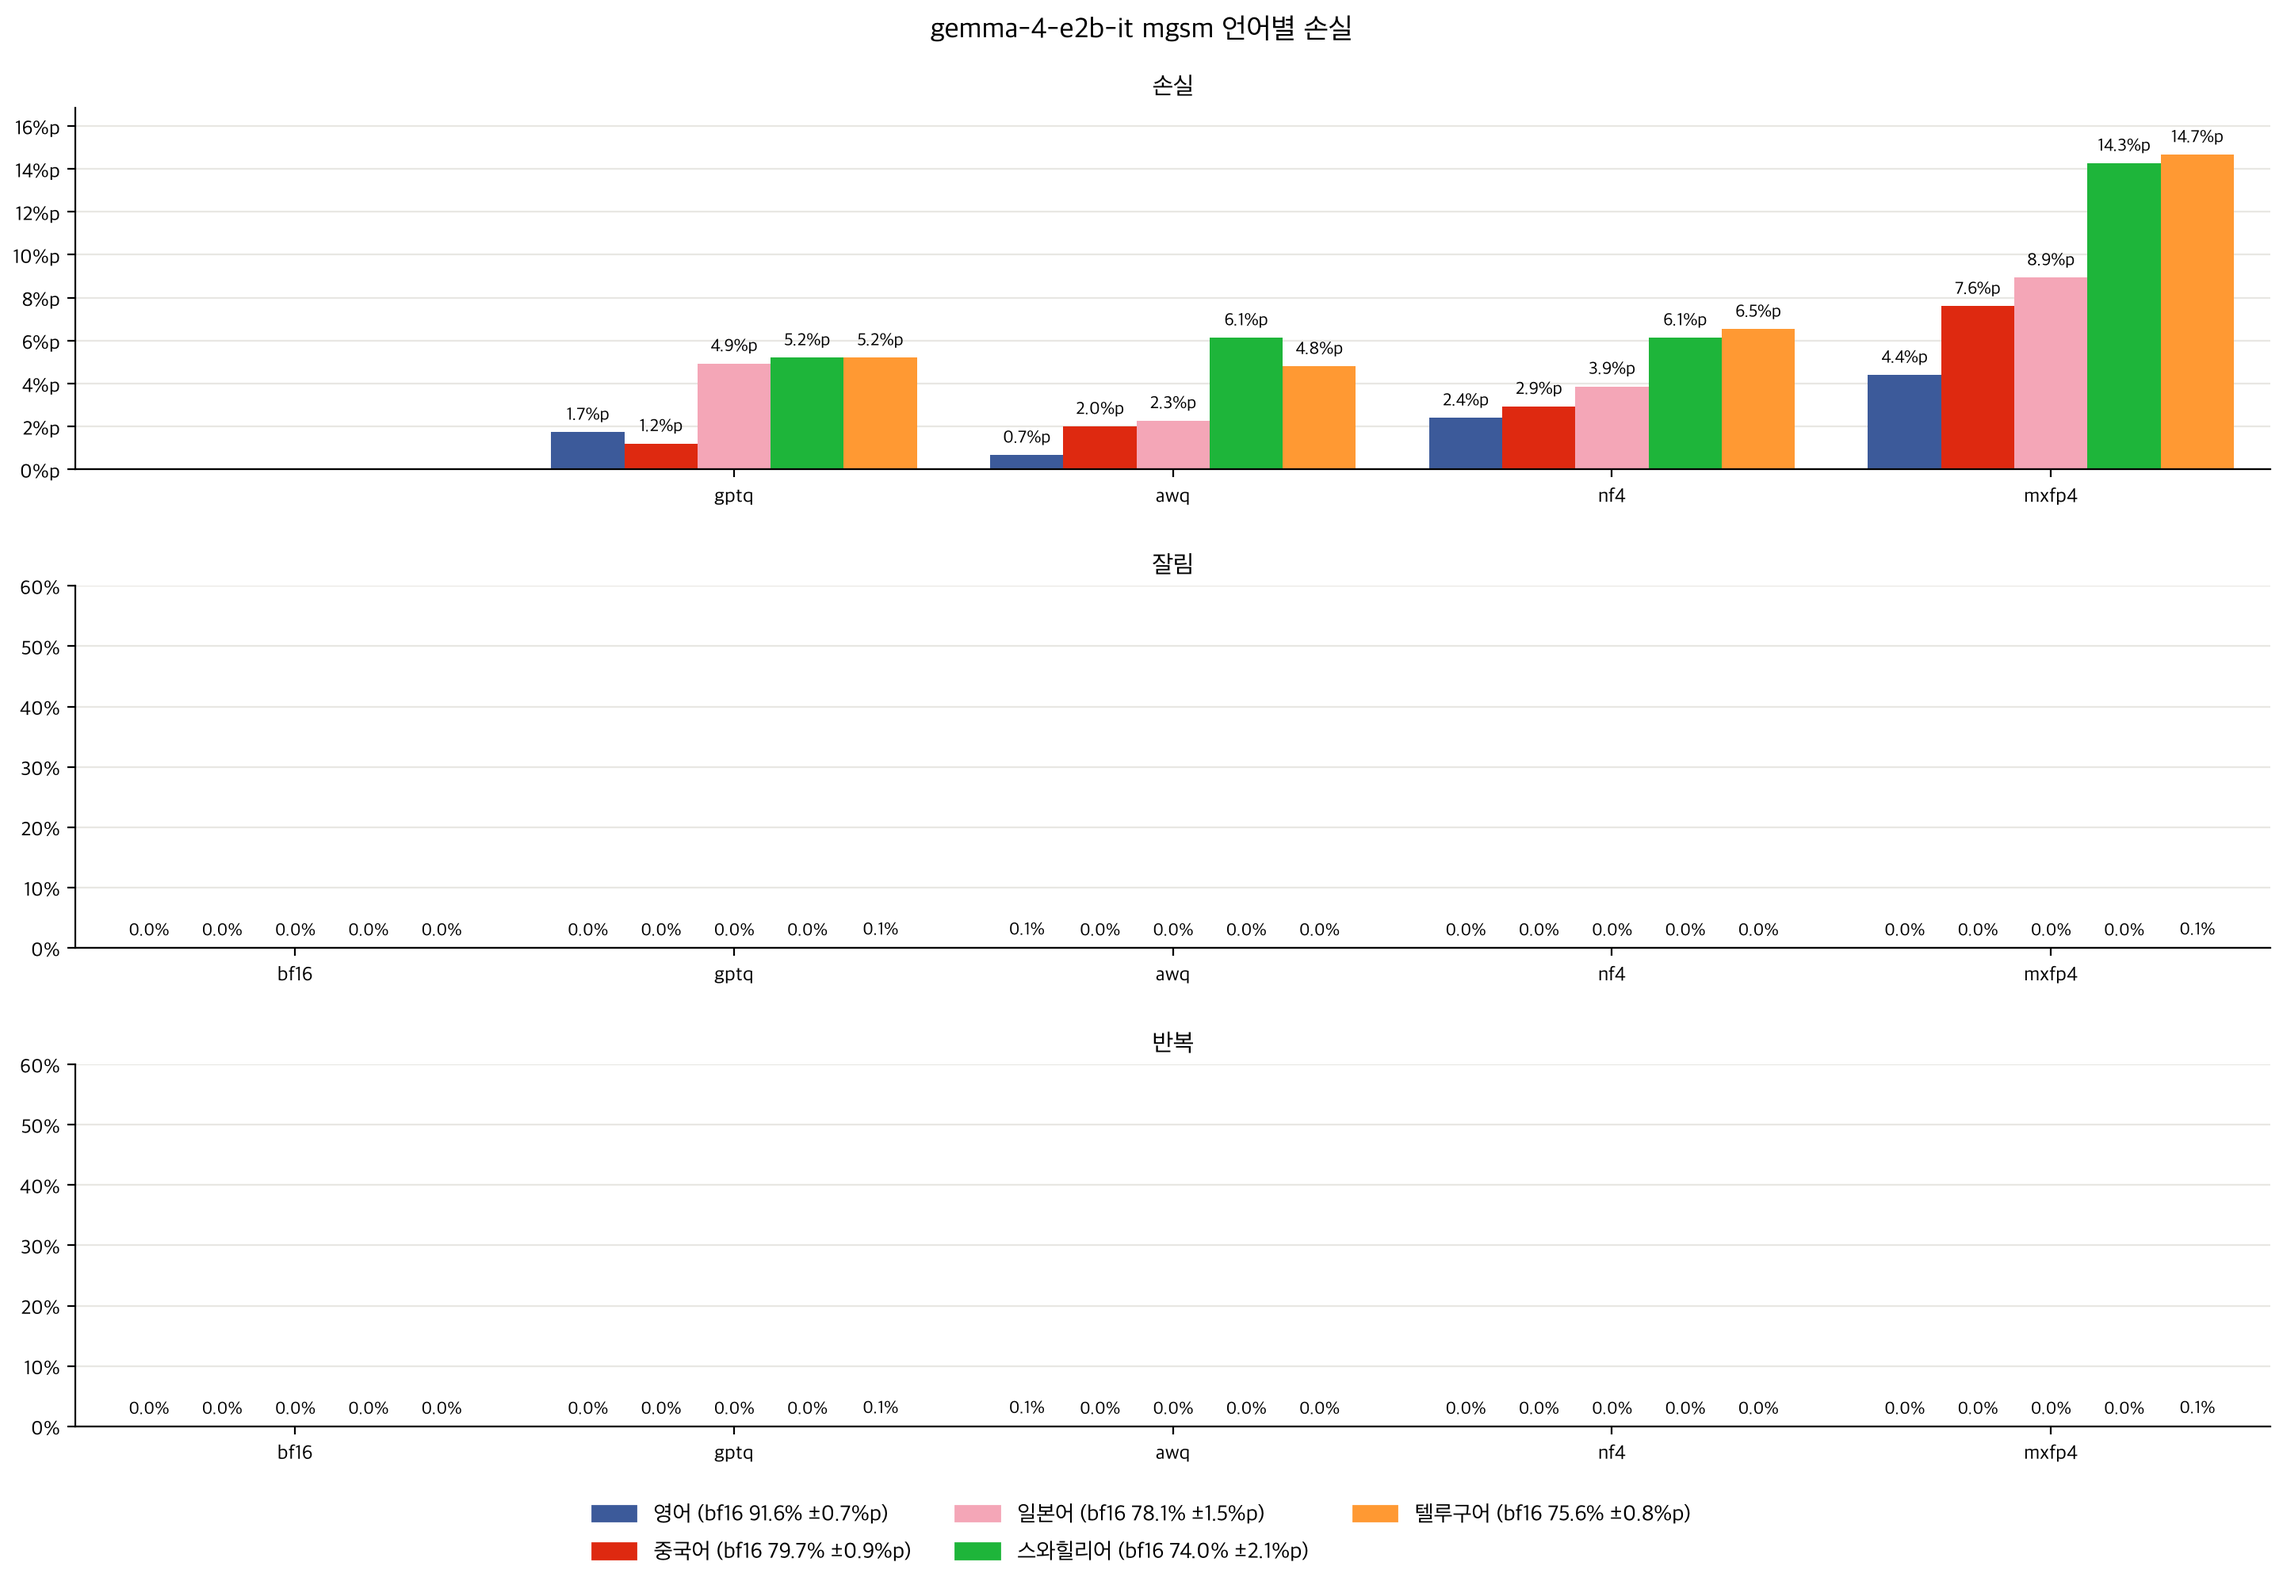
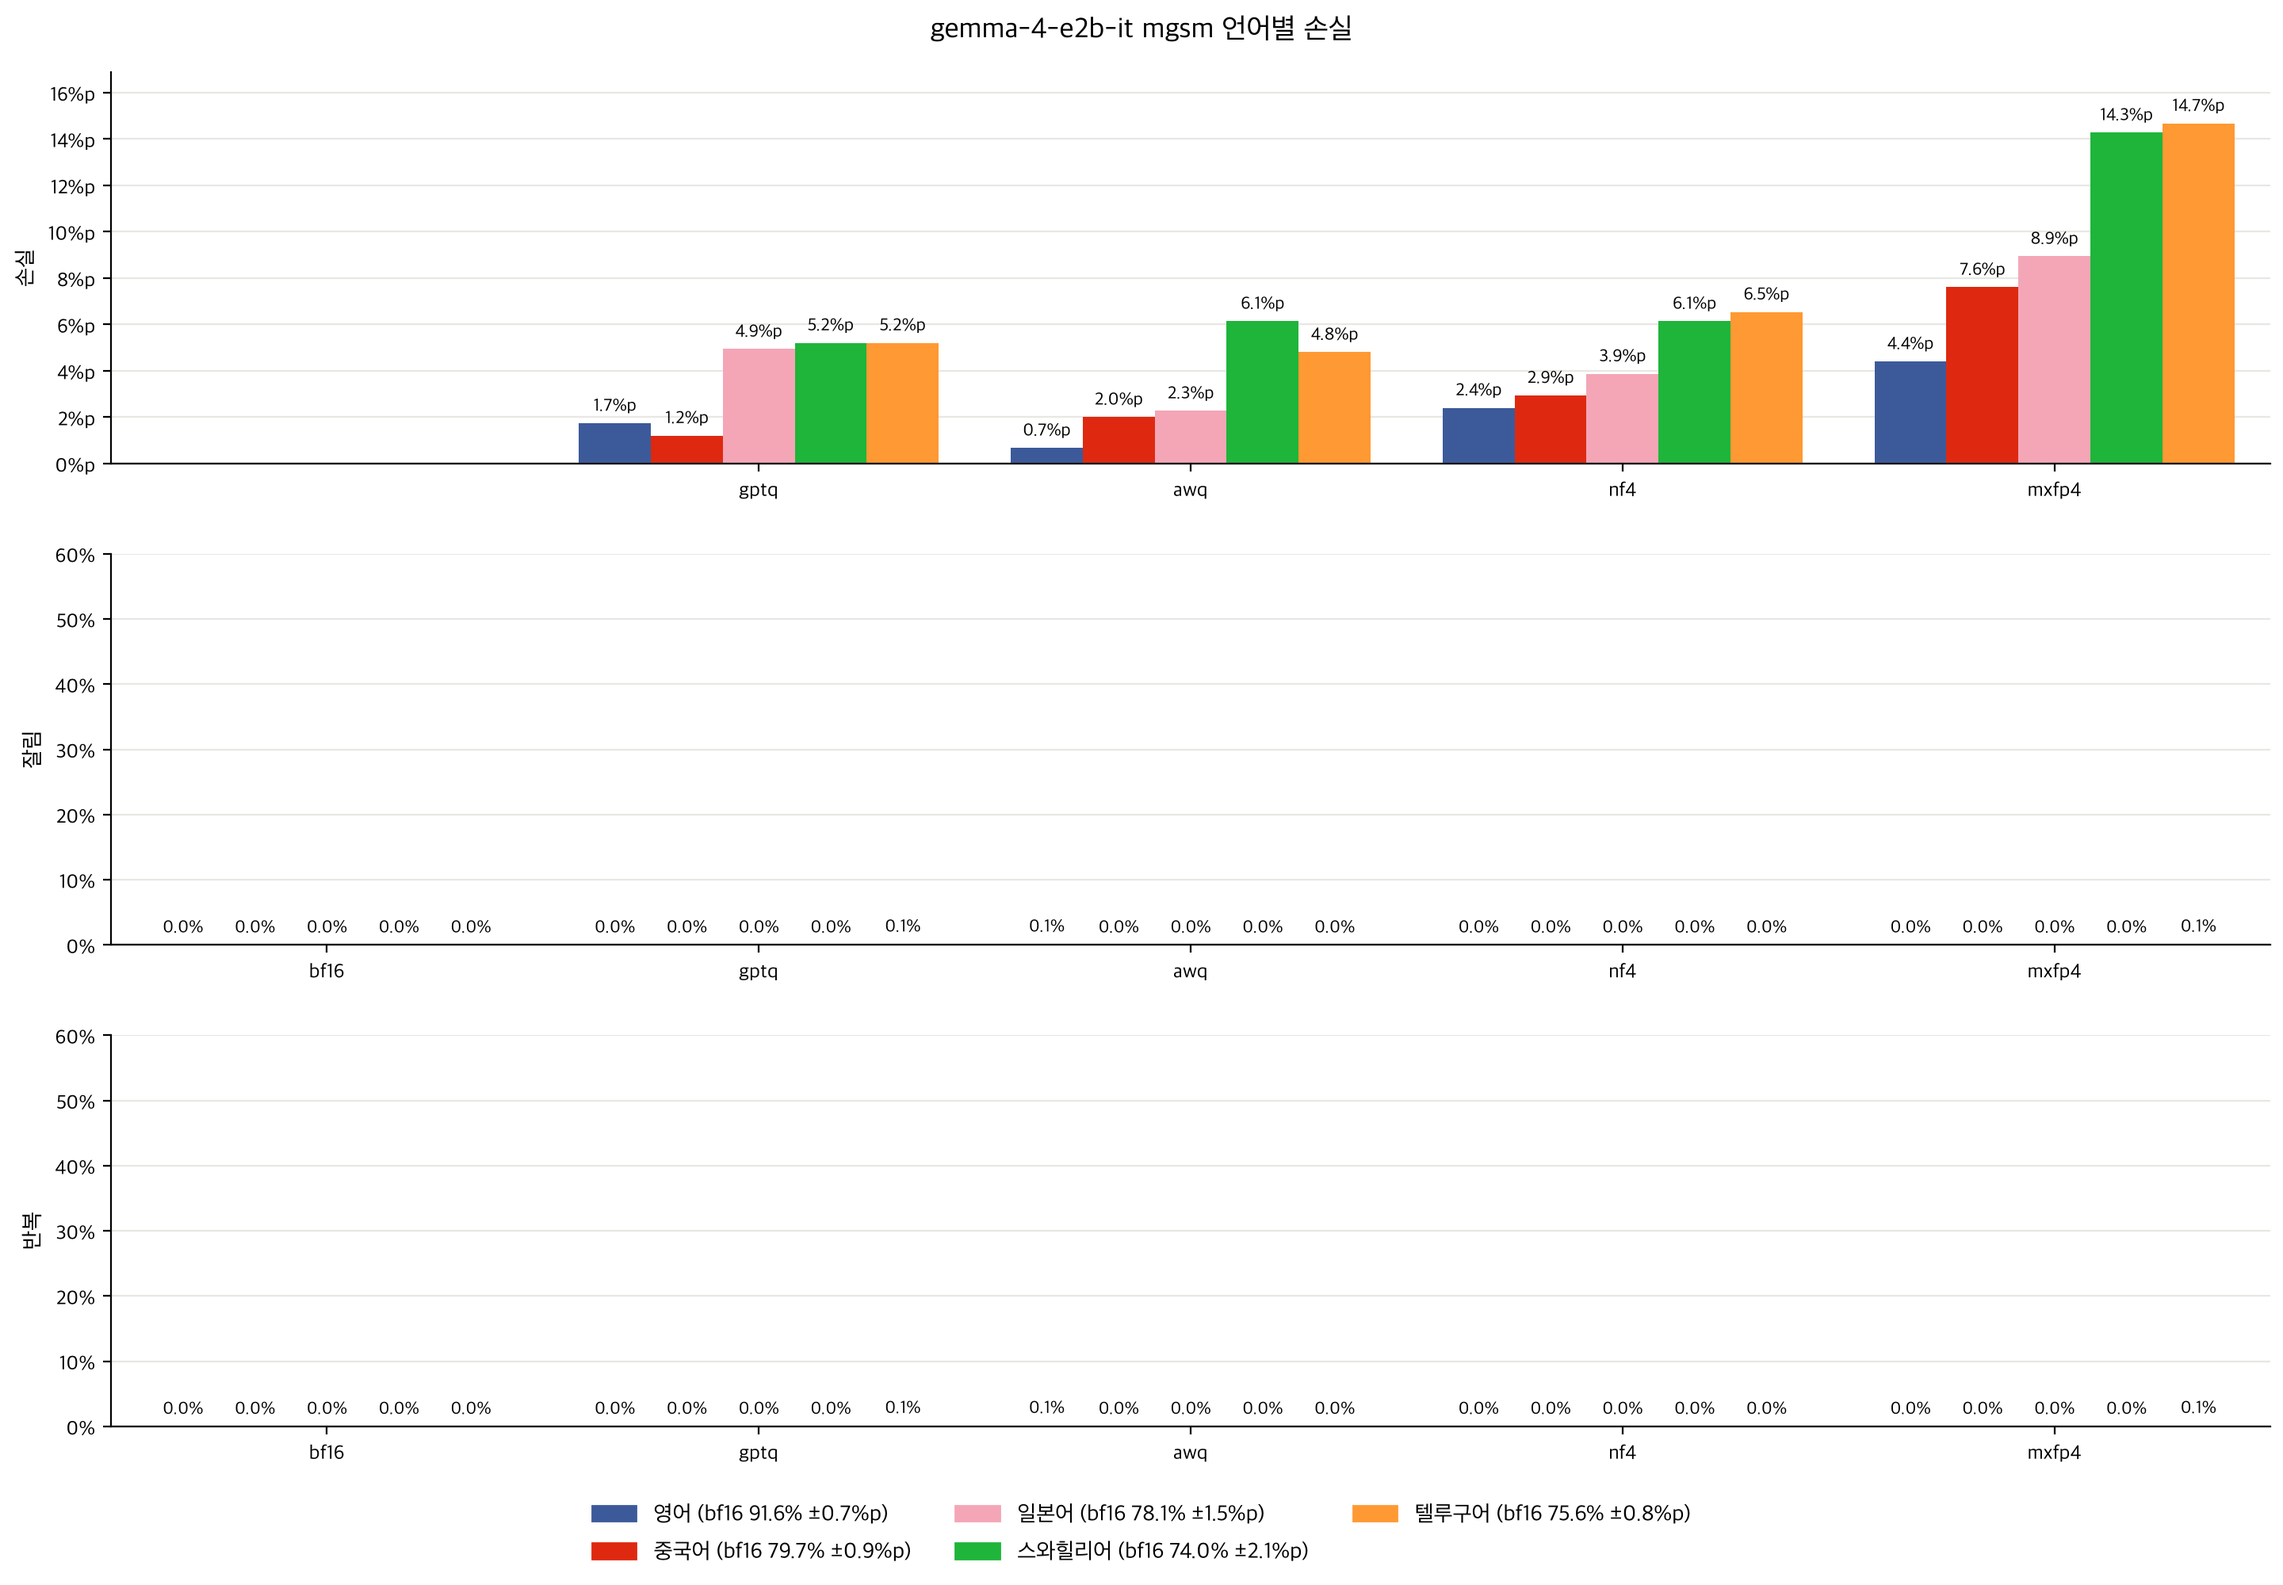
calibration 언어별 손실 실험 추가

diff --git a/plots/loss.py b/plots/loss.py
@@ -1,4 +1,3 @@
-from collections.abc import Callable
 from dataclasses import dataclass
 from statistics import mean
 from typing import Literal
@@ -6,10 +5,9 @@ from typing import Literal
 import matplotlib.pyplot as plt
 from simple_parsing import parse
 
-from utils.dataset import LANGUAGES
-from utils.hub import load_result
+from utils.hub import load_results
 from utils.paths import make_hub_path
-from utils.plot import CASE_WIDTH, QUANTIZATION_METHODS, add_language_legend, get_figsize, get_title, plot_language_bars, save_figure
+from utils.plot import CASE_WIDTH, QUANTIZATION_METHODS, add_language_legend, get_figsize, get_losses, get_mean_values, get_title, plot_language_bars, save_figure
 
 # 잘림과 반복은 모델끼리 비교하기 쉽게 y축 고정
 RATIO_YMAX = 0.6
@@ -26,12 +24,6 @@ class Config:
     max_generation_len: int = 16384
     seeds: tuple[int, ...] = (0, 1, 2)
     bf16_seeds: tuple[int, ...] = (0, 1, 2)
-
-
-def get_accuracy(
-    result: dict,
-) -> float:
-    return result["accuracy"]
 
 
 def get_truncated_ratio(
@@ -52,33 +44,20 @@ def get_loop_ratio(
     return mean(is_loop(reasoning) or is_loop(response) for reasoning, response in zip(result["reasonings"], result["responses"]))
 
 
-def get_mean_values(
-    results: dict[str, list[dict]],
-    cases: list[str],
-    get_value: Callable[[dict], float],
-) -> dict[str, list[float]]:
-    # 언어와 case마다 seed 평균
-    return {language: [mean(get_value(result[language]) for result in results[case]) for case in cases] for language in LANGUAGES}
-
-
 def main() -> None:
     config = parse(Config)
     results = {}
     for method, seeds in [("bf16", config.bf16_seeds)] + [(method, config.seeds) for method in QUANTIZATION_METHODS]:
         hub_path = make_hub_path(method, config.model_name, config.calibration_languages, config.num_bits, config.group_size, config.num_chunks)
-        results[method] = [load_result(config.benchmark, hub_path, f"max_generation_len={config.max_generation_len},seed={seed}") for seed in seeds]
+        results[method] = load_results(config.benchmark, hub_path, config.max_generation_len, seeds)
 
-    # 1. 손실: bf16 정확도에서 양자화 모델 정확도를 뺀 값
-    accuracies = get_mean_values(results, list(results), get_accuracy)
-    losses = {language: [language_accuracies[0] - accuracy for accuracy in language_accuracies[1:]] for language, language_accuracies in accuracies.items()}
-
-    # 2. 잘림과 반복은 bf16도 함께 표시
+    # 잘림과 반복은 bf16도 함께 표시
     fig, axes = plt.subplots(3, 1, figsize=get_figsize(len(results), 3), layout="constrained")
-    plot_language_bars(axes[0], QUANTIZATION_METHODS, losses, "%p")
+    plot_language_bars(axes[0], QUANTIZATION_METHODS, get_losses(results["bf16"], results, QUANTIZATION_METHODS), "%p")
     plot_language_bars(axes[1], list(results), get_mean_values(results, list(results), get_truncated_ratio), "%")
     plot_language_bars(axes[2], list(results), get_mean_values(results, list(results), get_loop_ratio), "%")
-    for ax, title in zip(axes, ["손실", "잘림", "반복"]):
-        ax.set_title(title)
+    for ax, ylabel in zip(axes, ["손실", "잘림", "반복"]):
+        ax.set_ylabel(ylabel)
     # 손실에는 bf16 case가 없어서, 잘림, 반복과 양자화 방법 위치를 맞추려고 bf16 자리를 비워 둠
     axes[0].set_xlim(-1.5 * CASE_WIDTH, (len(QUANTIZATION_METHODS) - 0.5) * CASE_WIDTH)
     axes[0].margins(y=0.15)

diff --git a/plots/calibration.py b/plots/calibration.py
@@ -1,0 +1,48 @@
+from dataclasses import dataclass
+
+import matplotlib.pyplot as plt
+from simple_parsing import parse
+
+from utils.dataset import LANGUAGES
+from utils.hub import load_results
+from utils.paths import make_hub_path
+from utils.plot import add_language_legend, get_figsize, get_losses, get_title, plot_language_bars, save_figure
+
+CALIBRATION_METHODS = ["gptq", "awq"]
+# x축 이름과 calibration 언어
+CALIBRATION_CASES = {"영어": ("en",), "스와힐리어": ("sw",), "텔루구어": ("te",), "다섯 언어 혼합": tuple(LANGUAGES)}
+
+
+@dataclass
+class Config:
+    model_name: str = "google/gemma-4-E2B-it"
+    num_bits: int = 4
+    group_size: int = 128
+    num_chunks: int = 128
+    max_generation_len: int = 16384
+    seeds: tuple[int, ...] = (0, 1, 2)
+    bf16_seeds: tuple[int, ...] = (0, 1, 2)
+
+
+def main() -> None:
+    config = parse(Config)
+    bf16_results = load_results("mgsm", make_hub_path("bf16", config.model_name), config.max_generation_len, config.bf16_seeds)
+
+    fig, axes = plt.subplots(len(CALIBRATION_METHODS), 1, figsize=get_figsize(len(CALIBRATION_CASES), len(CALIBRATION_METHODS)), sharey=True, layout="constrained")
+    for ax, method in zip(axes, CALIBRATION_METHODS):
+        results = {}
+        for case, calibration_languages in CALIBRATION_CASES.items():
+            hub_path = make_hub_path(method, config.model_name, calibration_languages, config.num_bits, config.group_size, config.num_chunks)
+            results[case] = load_results("mgsm", hub_path, config.max_generation_len, config.seeds)
+        plot_language_bars(ax, list(results), get_losses(bf16_results, results, list(results)), "%p")
+        ax.set_title(method)
+        ax.set_ylabel("손실")
+    axes[0].margins(y=0.15)
+
+    fig.suptitle(get_title(config.model_name, "mgsm", "calibration 언어별 손실"))
+    add_language_legend(fig, bf16_results)
+    save_figure(fig, config.model_name, "mgsm_calibration")
+
+
+if __name__ == "__main__":
+    main()

diff --git a/utils/plot.py b/utils/plot.py
@@ -1,3 +1,4 @@
+from collections.abc import Callable
 from pathlib import Path
 from statistics import mean, stdev
 
@@ -43,6 +44,32 @@ plt.rcParams.update({
     "legend.frameon": False,
     "savefig.dpi": 200,
 })
+
+
+def get_accuracy(
+    result: dict,
+) -> float:
+    return result["accuracy"]
+
+
+def get_mean_values(
+    results: dict[str, list[dict]],
+    cases: list[str],
+    get_value: Callable[[dict], float],
+) -> dict[str, list[float]]:
+    # 언어와 case마다 seed 평균
+    return {language: [mean(get_value(result[language]) for result in results[case]) for case in cases] for language in LANGUAGES}
+
+
+def get_losses(
+    bf16_results: list[dict],
+    results: dict[str, list[dict]],
+    cases: list[str],
+) -> dict[str, list[float]]:
+    # 언어와 case마다 bf16 정확도에서 정확도를 뺀 값
+    bf16_accuracies = get_mean_values({"bf16": bf16_results}, ["bf16"], get_accuracy)
+    accuracies = get_mean_values(results, cases, get_accuracy)
+    return {language: [bf16_accuracies[language][0] - accuracy for accuracy in accuracies[language]] for language in LANGUAGES}
 
 
 def get_title(

diff --git a/utils/hub.py b/utils/hub.py
@@ -5,6 +5,8 @@ from tempfile import TemporaryDirectory
 from huggingface_hub import HfApi, hf_hub_download, snapshot_download
 from transformers import PreTrainedModel
 
+from utils.paths import make_result_name
+
 REPO_NAME = "s4986p/multilingual-quantization"
 
 
@@ -49,3 +51,12 @@ def load_result(
     file_name: str,
 ) -> dict:
     return json.loads(Path(hf_hub_download(REPO_NAME, f"{experiment_name}/{hub_path}/{file_name}.json")).read_text())
+
+
+def load_results(
+    experiment_name: str,
+    hub_path: str,
+    max_generation_len: int,
+    seeds: tuple[int, ...],
+) -> list[dict]:
+    return [load_result(experiment_name, hub_path, make_result_name(max_generation_len, seed)) for seed in seeds]

diff --git a/utils/evaluation.py b/utils/evaluation.py
@@ -10,6 +10,7 @@ from utils.dataset import LANGUAGES
 from utils.format import format_duration
 from utils.hub import download_model, load_result, result_exists, save_result
 from utils.model import GENERATION_CONFIGS
+from utils.paths import make_result_name
 
 
 def load_vllm(
@@ -98,7 +99,7 @@ def evaluate_benchmark(
     seeds: tuple[int, ...],
     max_generation_len: int,
 ) -> None:
-    file_names = {seed: f"max_generation_len={max_generation_len},seed={seed}" for seed in seeds}
+    file_names = {seed: make_result_name(max_generation_len, seed) for seed in seeds}
 
     # 1. seed마다 hub result에서 빠진 언어 확인, 빠진 것이 없으면 종료
     results = {}

diff --git a/utils/paths.py b/utils/paths.py
@@ -10,3 +10,10 @@ def make_hub_path(
     if method in ("bf16", "nf4", "mxfp4"):
         return f"{method}/{model_name}"
     return f"{method}/{model_name}/calibration_languages={'_'.join(calibration_languages)},num_bits={num_bits},group_size={group_size},num_chunks={num_chunks}"
+
+
+def make_result_name(
+    max_generation_len: int,
+    seed: int,
+) -> str:
+    return f"max_generation_len={max_generation_len},seed={seed}"

diff --git a/README.md b/README.md
@@ -65,13 +65,21 @@
 ![](figures/Qwen3.5-2B/mgsm_loss.png)
 ![](figures/Qwen3.5-2B/mmlu_prox_lite_loss.png)
 - gemma mgsm에서, 스와힐리어와 텔루구어가 가장 많이 잃음
-- 양자화 방법 중에서는 mxfp4가 가장 많이 잃음
 - mmlu-prox-lite에서는, 영어보다 눈에 띄게 더 잃는 언어가 없음
 - qwen은 양자화하면 많이 잘리고, 잘린 문제는 대부분 반복
-- gemma는 거의 잘리지 않음
 - 따라서 반복 없이 언어별 손실만 보려고, 이후 실험은 gemma mgsm만 사용
 
 ### calibration 언어별 손실
+- gptq와 awq는 calibration 언어에 따라 손실이 달라질 수 있음
+- 해당 언어로도 calibration해 손실 비교
+#### 설정
+- 양자화 방법은 gptq, awq
+- calibration 언어는 영어, 스와힐리어, 텔루구어, 다섯 언어 혼합
+- 다섯 언어 혼합은 언어마다 chunk 25~26개
+#### 결과
+![](figures/gemma-4-E2B-it/mgsm_calibration.png)
+- gptq와 awq 모두, 해당 언어나 다섯 언어 혼합으로 calibration해도 스와힐리어와 텔루구어 손실이 눈에 띄게 줄지 않음
+- 따라서 calibration 언어는 손실의 원인이 아님
 
 ### reasoning 위치별 kl
 

diff --git a/EXPERIMENTS.md b/EXPERIMENTS.md
@@ -21,6 +21,17 @@
 - 따라서 반복 없이 언어별 손실만 보려고, 이후 실험은 gemma mgsm만 사용
 
 ### calibration 언어별 손실
+- gptq와 awq는 calibration 언어에 따라 손실이 달라질 수 있음
+- 해당 언어로도 calibration해 손실 비교
+#### 설정
+- 양자화 방법은 gptq, awq
+- calibration 언어는 영어, 스와힐리어, 텔루구어, 다섯 언어 혼합
+- 다섯 언어 혼합은 언어마다 chunk 25~26개
+#### 결과
+![](figures/gemma-4-E2B-it/mgsm_calibration.png)
+- gptq와 awq 모두, 해당 언어나 다섯 언어 혼합으로 calibration해도 스와힐리어와 텔루구어 손실이 눈에 띄게 줄지 않음
+- 언어별 손실에서도 calibration이 없는 mxfp4가 가장 많이 잃음
+- 따라서 calibration 언어는 손실의 원인이 아님
 
 ### reasoning 위치별 kl
 
